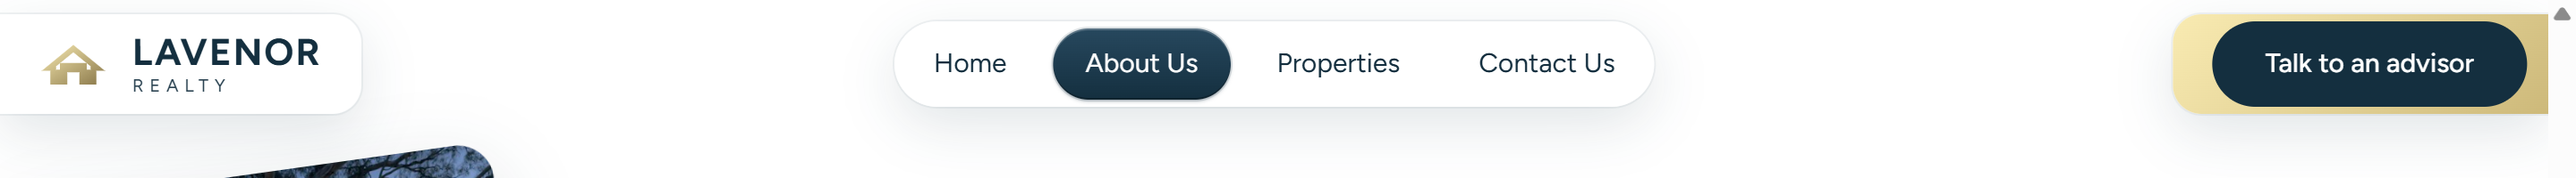
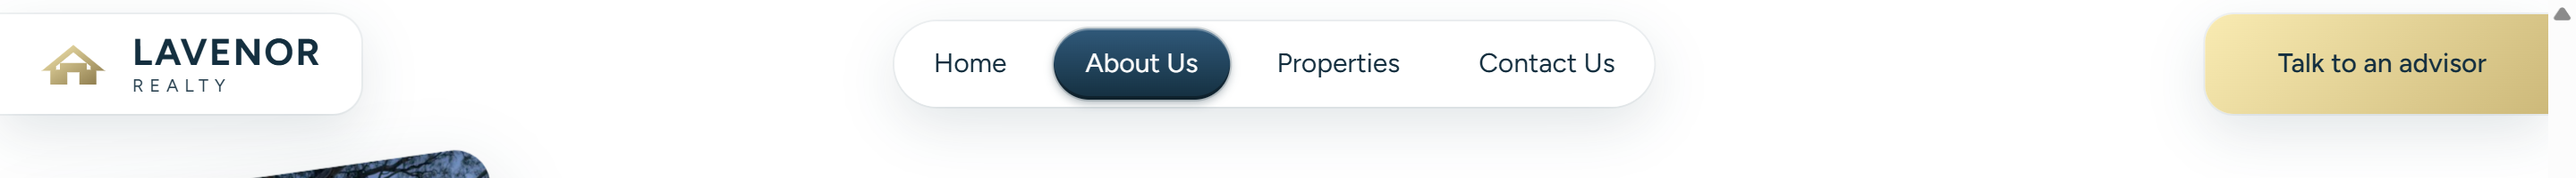
Header: sliding bevelled menu pill, gold bookmark with white hover sweep, friendlier colour labels

diff --git a/design/prototype/style.css b/design/prototype/style.css
@@ -177,8 +177,14 @@ legend { padding: 0; }
 .site-header__right { isolation: isolate; }
 .site-header__right::before { content: ""; position: absolute; inset: 0; z-index: -1; border-radius: inherit; background: var(--wp--preset--gradient--brand-gold-soft); opacity: 0; transition: opacity .25s ease; }
 .site-header.is-scrolled .site-header__right::before { opacity: 1; }
-.site-header.is-scrolled .btn--cta { background: var(--wp--preset--color--contrast); color: var(--wp--preset--color--base); box-shadow: none; }
-.site-header.is-scrolled .btn--cta::before { background: var(--wp--preset--color--contrast-hover); }
+/* the button's own gold lives on a layer so it can fade out as the bookmark's gold fades in */
+.site-header .btn--cta { background: transparent; box-shadow: none; transition: padding .25s ease, margin .25s ease, color var(--wp--custom--transition); }
+.site-header .btn--cta::after { content: ""; position: absolute; inset: -1px; z-index: -2; border-radius: inherit; background: var(--wp--preset--gradient--brand-gold-soft); box-shadow: inset 0 1px 0 rgba(255, 255, 255, 0.45); transition: opacity .25s ease; }
+.site-header.is-scrolled .btn--cta { color: var(--wp--preset--color--contrast); }
+.site-header.is-scrolled .btn--cta::after, .site-header.is-scrolled .btn--cta::before { opacity: 0; }
+/* white sweep across the whole bookmark on hover; the text stays navy */
+.site-header__right::after { content: ""; position: absolute; inset: 0; z-index: -1; border-radius: inherit; background: var(--wp--preset--color--base); transform: scaleX(0); transform-origin: left center; transition: transform .5s cubic-bezier(.22, 1, .36, 1); }
+.site-header.is-scrolled .site-header__right:hover::after { transform: scaleX(1); }
 
 .brand { display: inline-flex; align-items: center; gap: 12px; line-height: 1; }
 .brand__mark { flex: none; width: 42px; height: auto; }
@@ -199,24 +205,39 @@ legend { padding: 0; }
 	background: rgba(255, 255, 255, 0.78);
 	box-shadow: 0 0 0 1px rgba(20, 47, 63, 0.06), 0 10px 30px rgba(20, 47, 63, 0.12);
 }
+.nav__list { position: relative; }
+.nav__hl {
+	position: absolute; top: 4px; left: 0; height: 40px; width: var(--hl-w, 0px); transform: translateX(var(--hl-x, 0px));
+	border-radius: var(--wp--custom--radius--pill); pointer-events: none; opacity: 0;
+	background: linear-gradient(180deg, #ffffff 0%, #e2e9ed 100%);
+	box-shadow: inset 0 1px 0 #ffffff, inset 0 -2px 0 rgba(20, 47, 63, 0.14), 0 2px 5px rgba(20, 47, 63, 0.24), 0 0 0 1px rgba(20, 47, 63, 0.07);
+	transition: transform .42s cubic-bezier(.22, 1, .36, 1), width .42s cubic-bezier(.22, 1, .36, 1), opacity .25s ease;
+}
+.nav__list.is-placed .nav__hl { opacity: 1; }
+.site-header.is-scrolled .nav__hl, .site-header--dark .nav__hl {
+	background: linear-gradient(180deg, #30597a 0%, var(--wp--preset--color--contrast) 100%);
+	box-shadow: inset 0 1px 0 rgba(255, 255, 255, 0.3), inset 0 -2px 0 rgba(0, 0, 0, 0.32), 0 2px 5px rgba(20, 47, 63, 0.34), 0 0 0 1px rgba(20, 47, 63, 0.16);
+}
 .nav__link {
+	position: relative; z-index: 1;
 	display: inline-flex; align-items: center; height: 40px; padding: 0 18px;
 	border-radius: var(--wp--custom--radius--pill); font-size: var(--wp--preset--font-size--small);
 	transition: background-color var(--wp--custom--transition), color var(--wp--custom--transition);
 }
 .nav__link:hover { background: rgba(255, 255, 255, 0.18); }
 .site-header.is-scrolled .nav__link:hover, .site-header--dark .nav__link:hover { background: rgba(0, 0, 0, 0.06); }
-.nav__link.is-active {
-	background: linear-gradient(180deg, #ffffff 0%, #edf2f4 100%); color: var(--wp--preset--color--contrast);
-	box-shadow: inset 0 1px 0 rgba(255, 255, 255, 0.95), inset 0 -1px 0 rgba(20, 47, 63, 0.10), 0 1px 2px rgba(20, 47, 63, 0.18), 0 0 0 1px rgba(20, 47, 63, 0.05);
-}
-.site-header.is-scrolled .nav__link.is-active, .site-header--dark .nav__link.is-active {
-	background: linear-gradient(180deg, #27485e 0%, var(--wp--preset--color--contrast) 100%); color: var(--wp--preset--color--base);
-	box-shadow: inset 0 1px 0 rgba(255, 255, 255, 0.22), inset 0 -1px 0 rgba(0, 0, 0, 0.28), 0 1px 2px rgba(20, 47, 63, 0.28), 0 0 0 1px rgba(20, 47, 63, 0.12);
-}
+.nav__link.is-active { color: var(--wp--preset--color--contrast); }
+.nav__link.is-active:hover { background: transparent; }
+.site-header.is-scrolled .nav__link.is-active, .site-header--dark .nav__link.is-active { color: var(--wp--preset--color--base); }
+/* until the script places the sliding pill, the active link carries a flat one */
+.nav__list:not(.is-placed) .nav__link.is-active { background: var(--wp--preset--color--base); }
+.site-header.is-scrolled .nav__list:not(.is-placed) .nav__link.is-active, .site-header--dark .nav__list:not(.is-placed) .nav__link.is-active { background: var(--wp--preset--color--contrast); }
 
 .site-header__right { display: flex; align-items: center; gap: 36px; }
 .site-header.is-scrolled .site-header__right { gap: 22px; }
+@media (min-width: 721px) {
+	.site-header.is-scrolled .btn--cta { height: var(--header-piece); margin: 0 -12px 0 -22px; padding: 0 34px 0 40px; border-radius: 16px 0 0 16px; }
+}
 
 /* language switcher */
 .lang { position: relative; }

diff --git a/theme/bytenot-estate/assets/css/theme.css b/theme/bytenot-estate/assets/css/theme.css
@@ -129,8 +129,14 @@ legend { padding: 0; }
 .site-header__right { isolation: isolate; }
 .site-header__right::before { content: ""; position: absolute; inset: 0; z-index: -1; border-radius: inherit; background: var(--wp--preset--gradient--brand-gold-soft); opacity: 0; transition: opacity .25s ease; }
 .site-header.is-scrolled .site-header__right::before { opacity: 1; }
-.site-header.is-scrolled .btn--cta { background: var(--wp--preset--color--contrast); color: var(--wp--preset--color--base); box-shadow: none; }
-.site-header.is-scrolled .btn--cta::before { background: var(--wp--preset--color--contrast-hover); }
+/* the button's own gold lives on a layer so it can fade out as the bookmark's gold fades in */
+.site-header .btn--cta { background: transparent; box-shadow: none; transition: padding .25s ease, margin .25s ease, color var(--wp--custom--transition); }
+.site-header .btn--cta::after { content: ""; position: absolute; inset: -1px; z-index: -2; border-radius: inherit; background: var(--wp--preset--gradient--brand-gold-soft); box-shadow: inset 0 1px 0 rgba(255, 255, 255, 0.45); transition: opacity .25s ease; }
+.site-header.is-scrolled .btn--cta { color: var(--wp--preset--color--contrast); }
+.site-header.is-scrolled .btn--cta::after, .site-header.is-scrolled .btn--cta::before { opacity: 0; }
+/* white sweep across the whole bookmark on hover; the text stays navy */
+.site-header__right::after { content: ""; position: absolute; inset: 0; z-index: -1; border-radius: inherit; background: var(--wp--preset--color--base); transform: scaleX(0); transform-origin: left center; transition: transform .5s cubic-bezier(.22, 1, .36, 1); }
+.site-header.is-scrolled .site-header__right:hover::after { transform: scaleX(1); }
 
 .brand { display: inline-flex; align-items: center; gap: 12px; line-height: 1; }
 .brand__mark { flex: none; width: 42px; height: auto; }
@@ -151,24 +157,39 @@ legend { padding: 0; }
 	background: rgba(255, 255, 255, 0.78);
 	box-shadow: 0 0 0 1px rgba(20, 47, 63, 0.06), 0 10px 30px rgba(20, 47, 63, 0.12);
 }
+.nav__list { position: relative; }
+.nav__hl {
+	position: absolute; top: 4px; left: 0; height: 40px; width: var(--hl-w, 0px); transform: translateX(var(--hl-x, 0px));
+	border-radius: var(--wp--custom--radius--pill); pointer-events: none; opacity: 0;
+	background: linear-gradient(180deg, #ffffff 0%, #e2e9ed 100%);
+	box-shadow: inset 0 1px 0 #ffffff, inset 0 -2px 0 rgba(20, 47, 63, 0.14), 0 2px 5px rgba(20, 47, 63, 0.24), 0 0 0 1px rgba(20, 47, 63, 0.07);
+	transition: transform .42s cubic-bezier(.22, 1, .36, 1), width .42s cubic-bezier(.22, 1, .36, 1), opacity .25s ease;
+}
+.nav__list.is-placed .nav__hl { opacity: 1; }
+.site-header.is-scrolled .nav__hl, .site-header--dark .nav__hl {
+	background: linear-gradient(180deg, #30597a 0%, var(--wp--preset--color--contrast) 100%);
+	box-shadow: inset 0 1px 0 rgba(255, 255, 255, 0.3), inset 0 -2px 0 rgba(0, 0, 0, 0.32), 0 2px 5px rgba(20, 47, 63, 0.34), 0 0 0 1px rgba(20, 47, 63, 0.16);
+}
 .nav__link {
+	position: relative; z-index: 1;
 	display: inline-flex; align-items: center; height: 40px; padding: 0 18px;
 	border-radius: var(--wp--custom--radius--pill); font-size: var(--wp--preset--font-size--small);
 	transition: background-color var(--wp--custom--transition), color var(--wp--custom--transition);
 }
 .nav__link:hover { background: rgba(255, 255, 255, 0.18); }
 .site-header.is-scrolled .nav__link:hover, .site-header--dark .nav__link:hover { background: rgba(0, 0, 0, 0.06); }
-.nav__link.is-active {
-	background: linear-gradient(180deg, #ffffff 0%, #edf2f4 100%); color: var(--wp--preset--color--contrast);
-	box-shadow: inset 0 1px 0 rgba(255, 255, 255, 0.95), inset 0 -1px 0 rgba(20, 47, 63, 0.10), 0 1px 2px rgba(20, 47, 63, 0.18), 0 0 0 1px rgba(20, 47, 63, 0.05);
-}
-.site-header.is-scrolled .nav__link.is-active, .site-header--dark .nav__link.is-active {
-	background: linear-gradient(180deg, #27485e 0%, var(--wp--preset--color--contrast) 100%); color: var(--wp--preset--color--base);
-	box-shadow: inset 0 1px 0 rgba(255, 255, 255, 0.22), inset 0 -1px 0 rgba(0, 0, 0, 0.28), 0 1px 2px rgba(20, 47, 63, 0.28), 0 0 0 1px rgba(20, 47, 63, 0.12);
-}
+.nav__link.is-active { color: var(--wp--preset--color--contrast); }
+.nav__link.is-active:hover { background: transparent; }
+.site-header.is-scrolled .nav__link.is-active, .site-header--dark .nav__link.is-active { color: var(--wp--preset--color--base); }
+/* until the script places the sliding pill, the active link carries a flat one */
+.nav__list:not(.is-placed) .nav__link.is-active { background: var(--wp--preset--color--base); }
+.site-header.is-scrolled .nav__list:not(.is-placed) .nav__link.is-active, .site-header--dark .nav__list:not(.is-placed) .nav__link.is-active { background: var(--wp--preset--color--contrast); }
 
 .site-header__right { display: flex; align-items: center; gap: 36px; }
 .site-header.is-scrolled .site-header__right { gap: 22px; }
+@media (min-width: 721px) {
+	.site-header.is-scrolled .btn--cta { height: var(--header-piece); margin: 0 -12px 0 -22px; padding: 0 34px 0 40px; border-radius: 16px 0 0 16px; }
+}
 
 /* language switcher */
 .lang { position: relative; }

diff --git a/design/prototype/app.js b/design/prototype/app.js
@@ -86,6 +86,21 @@
 	const sameHash = (a) => { const h = a.getAttribute('href') || ''; const u = new URL(a.href, location.href); return u.pathname === location.pathname && u.hash && u.hash !== '#' ? u.hash : (h === '#' || (u.pathname === location.pathname && !u.hash) ? '' : null); };
 	const spy = spyLinks.map((a) => ({ a, hash: sameHash(a) })).filter((l) => l.hash !== null);
 	const spyTargets = [...new Set(spy.map((l) => l.hash).filter(Boolean))].map((hash) => ({ hash, el: $(hash) })).filter((t) => t.el);
+	const navList = $('.nav__list');
+	const navHl = navList && $('.nav__hl', navList);
+	let hlPlaced = false;
+	const placeNavHl = () => {
+		if (!navHl) return;
+		const on = $('.nav__link.is-active', navList);
+		if (!on) { navList.classList.remove('is-placed'); hlPlaced = false; return; }
+		if (!hlPlaced) navHl.style.transition = 'none';
+		navList.style.setProperty('--hl-x', `${on.offsetLeft}px`);
+		navList.style.setProperty('--hl-w', `${on.offsetWidth}px`);
+		if (!hlPlaced) { void navHl.offsetWidth; navHl.style.transition = ''; hlPlaced = true; navList.classList.add('is-placed'); }
+	};
+	placeNavHl();
+	document.fonts?.ready.then(placeNavHl);
+	addEventListener('resize', placeNavHl);
 	if (spyTargets.length) {
 		let current = null;
 		const paint = () => {
@@ -99,6 +114,7 @@
 				l.a.classList.toggle('is-active', active && l.a.classList.contains('nav__link'));
 				if (active) l.a.setAttribute('aria-current', 'page'); else l.a.removeAttribute('aria-current');
 			});
+			placeNavHl();
 		};
 		let spyTick = false;
 		addEventListener('scroll', () => { if (!spyTick) { spyTick = true; requestAnimationFrame(() => { spyTick = false; paint(); }); } }, { passive: true });

diff --git a/theme/bytenot-estate/assets/js/theme.js b/theme/bytenot-estate/assets/js/theme.js
@@ -33,6 +33,21 @@
 	const sameHash = (a) => { const h = a.getAttribute('href') || ''; const u = new URL(a.href, location.href); return u.pathname === location.pathname && u.hash && u.hash !== '#' ? u.hash : (h === '#' || (u.pathname === location.pathname && !u.hash) ? '' : null); };
 	const spy = spyLinks.map((a) => ({ a, hash: sameHash(a) })).filter((l) => l.hash !== null);
 	const spyTargets = [...new Set(spy.map((l) => l.hash).filter(Boolean))].map((hash) => ({ hash, el: $(hash) })).filter((t) => t.el);
+	const navList = $('.nav__list');
+	const navHl = navList && $('.nav__hl', navList);
+	let hlPlaced = false;
+	const placeNavHl = () => {
+		if (!navHl) return;
+		const on = $('.nav__link.is-active', navList);
+		if (!on) { navList.classList.remove('is-placed'); hlPlaced = false; return; }
+		if (!hlPlaced) navHl.style.transition = 'none';
+		navList.style.setProperty('--hl-x', `${on.offsetLeft}px`);
+		navList.style.setProperty('--hl-w', `${on.offsetWidth}px`);
+		if (!hlPlaced) { void navHl.offsetWidth; navHl.style.transition = ''; hlPlaced = true; navList.classList.add('is-placed'); }
+	};
+	placeNavHl();
+	document.fonts?.ready.then(placeNavHl);
+	addEventListener('resize', placeNavHl);
 	if (spyTargets.length) {
 		let current = null;
 		const paint = () => {
@@ -46,6 +61,7 @@
 				l.a.classList.toggle('is-active', active && l.a.classList.contains('nav__link'));
 				if (active) l.a.setAttribute('aria-current', 'page'); else l.a.removeAttribute('aria-current');
 			});
+			placeNavHl();
 		};
 		let spyTick = false;
 		addEventListener('scroll', () => { if (!spyTick) { spyTick = true; requestAnimationFrame(() => { spyTick = false; paint(); }); } }, { passive: true });

diff --git a/design/prototype/properties.html b/design/prototype/properties.html
@@ -24,7 +24,7 @@
 		</a>
 
 		<nav class="nav" aria-label="Primary">
-			<ul class="nav__list">
+			<ul class="nav__list"><li class="nav__hl" aria-hidden="true"></li>
 				<li><a class="nav__link" href="index.html">Home</a></li>
 				<li><a class="nav__link" href="#about">About Us</a></li>
 				<li><a class="nav__link is-active" href="properties.html" aria-current="page">Properties</a></li>

diff --git a/design/prototype/index.html b/design/prototype/index.html
@@ -24,7 +24,7 @@
 		</a>
 
 		<nav class="nav" aria-label="Primary">
-			<ul class="nav__list">
+			<ul class="nav__list"><li class="nav__hl" aria-hidden="true"></li>
 				<li><a class="nav__link is-active" href="#" aria-current="page">Home</a></li>
 				<li><a class="nav__link" href="#about">About Us</a></li>
 				<li><a class="nav__link" href="properties.html">Properties</a></li>

diff --git a/design/prototype/property.html b/design/prototype/property.html
@@ -25,7 +25,7 @@
 		</a>
 
 		<nav class="nav" aria-label="Primary">
-			<ul class="nav__list">
+			<ul class="nav__list"><li class="nav__hl" aria-hidden="true"></li>
 				<li><a class="nav__link" href="index.html">Home</a></li>
 				<li><a class="nav__link" href="index.html#about">About Us</a></li>
 				<li><a class="nav__link is-active" href="properties.html">Properties</a></li>

diff --git a/theme/bytenot-estate/inc/template-tags.php b/theme/bytenot-estate/inc/template-tags.php
@@ -133,7 +133,7 @@ function bytenot_menu_fallback( $args ) {
 		array( __( 'Contact Us', 'bytenot-estate' ), $home . '#inquiry', false ),
 	);
 	$nav = 'nav__list' === $args['menu_class'];
-	echo '<ul class="' . esc_attr( $args['menu_class'] ) . '">';
+	echo '<ul class="' . esc_attr( $args['menu_class'] ) . '">' . ( $nav ? '<li class="nav__hl" aria-hidden="true"></li>' : '' );
 	foreach ( $items as $item ) {
 		printf(
 			'<li><a%1$s href="%2$s"%3$s>%4$s</a></li>',

diff --git a/theme/bytenot-estate/header.php b/theme/bytenot-estate/header.php
@@ -30,7 +30,7 @@ defined( 'ABSPATH' ) || exit;
 					'theme_location' => 'primary',
 					'container'      => false,
 					'menu_class'     => 'nav__list',
-					'items_wrap'     => '<ul class="%2$s">%3$s</ul>',
+					'items_wrap'     => '<ul class="%2$s"><li class="nav__hl" aria-hidden="true"></li>%3$s</ul>',
 					'depth'          => 1,
 					'fallback_cb'    => 'bytenot_menu_fallback',
 				)
